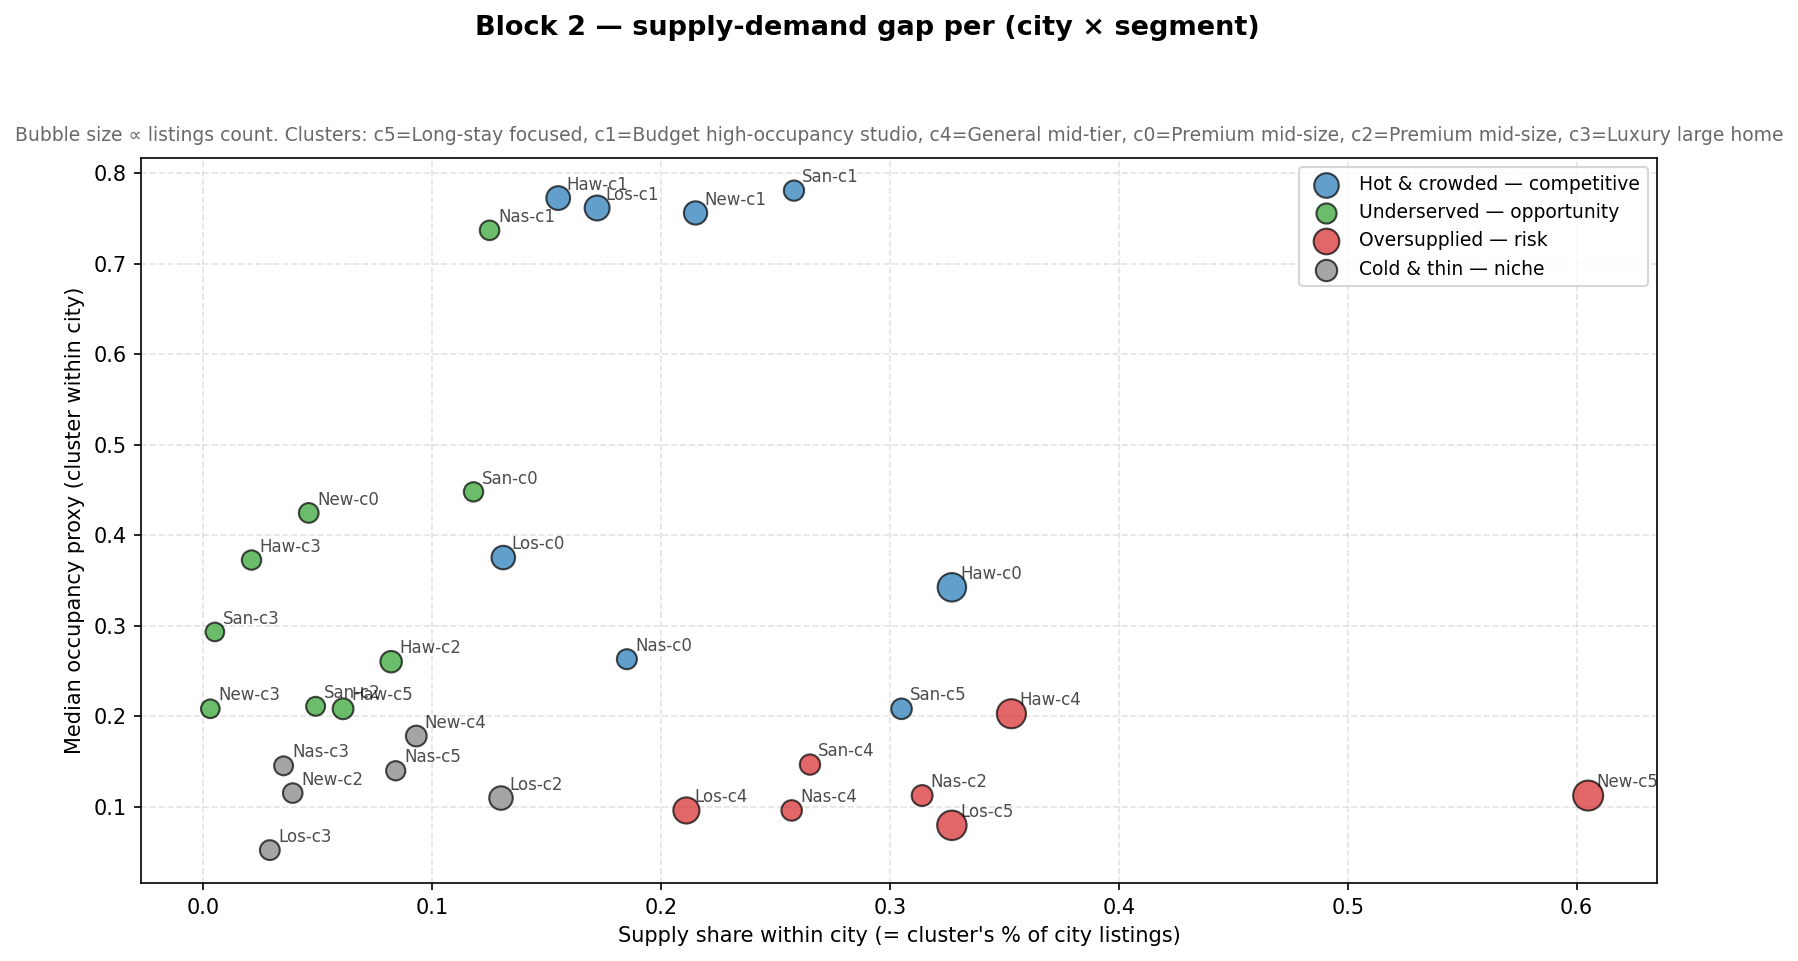
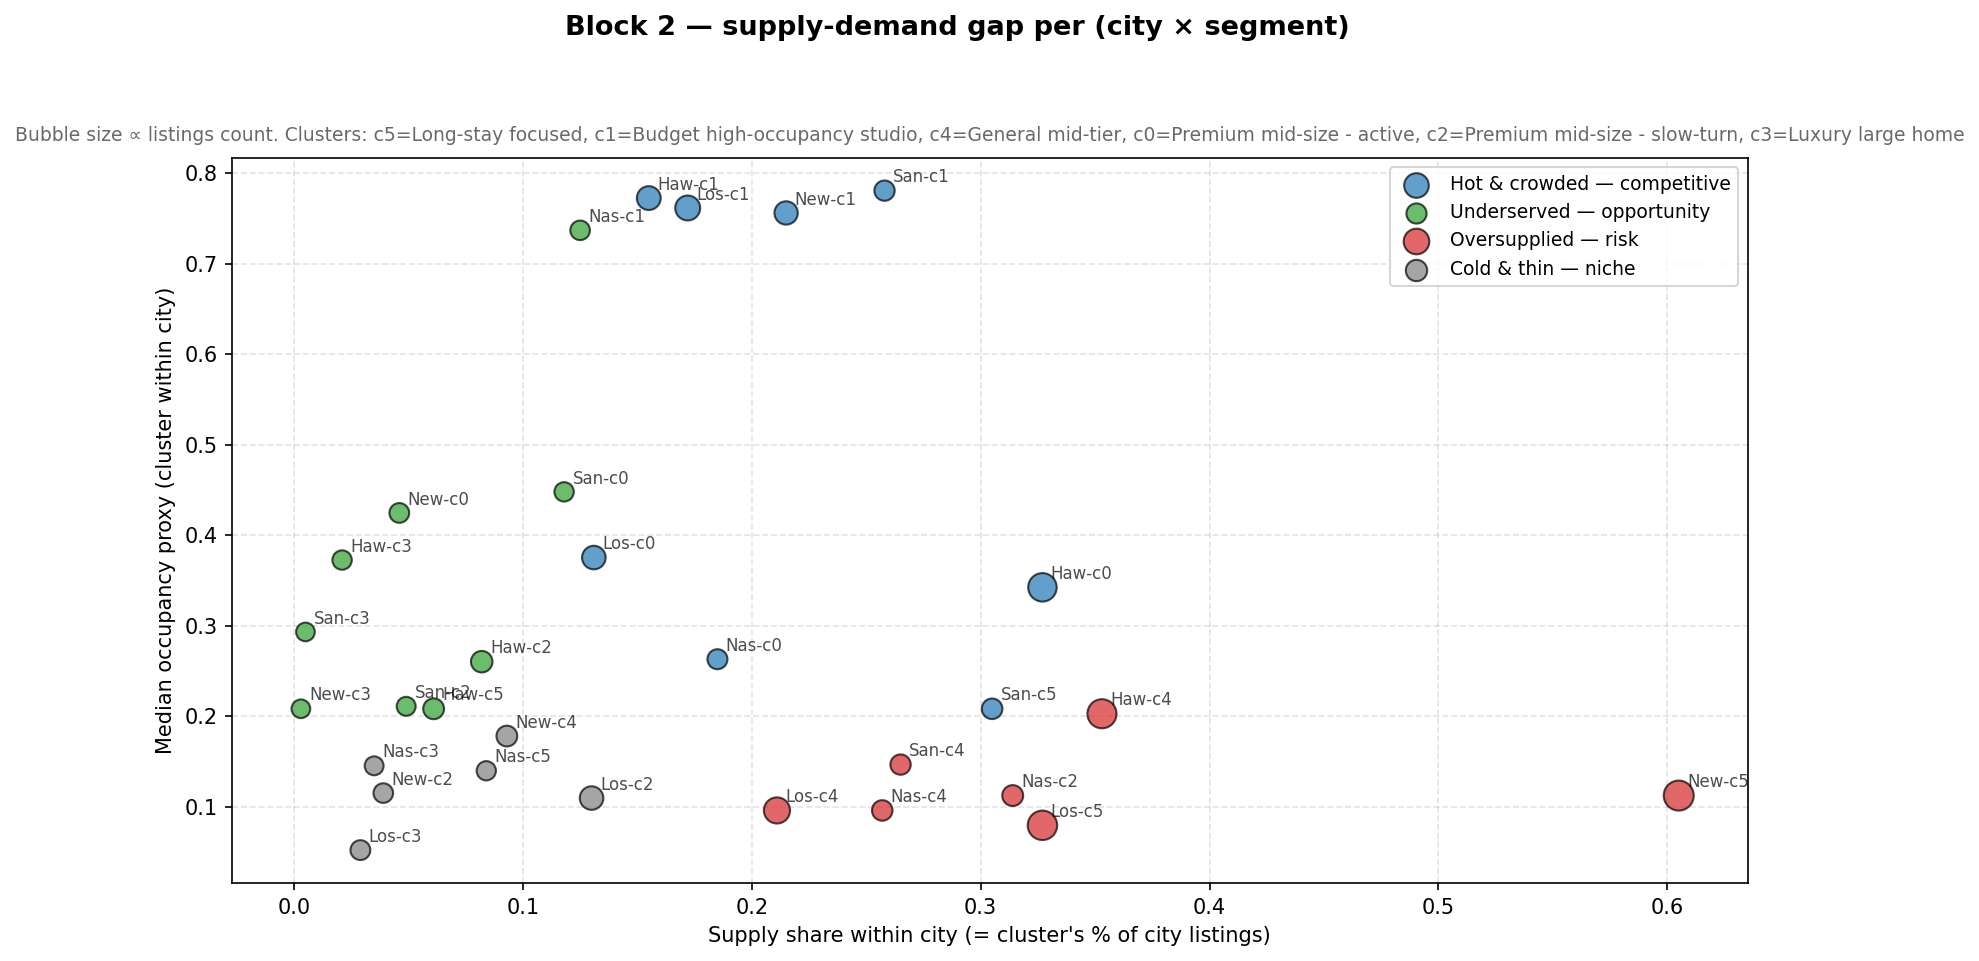
Block 2: disambiguate cluster_name for c0 / c2 to keep Block 5 groupby safe
Clusters 0 and 2 both hit the "Premium mid-size" auto-name branch even though
they are economically distinct (c0: Hawaii, $312, 35% occupancy; c2: LA, $395,
16% occupancy). Once Block 5 runs `df.groupby("cluster_name")`, the two would
collapse into one bucket, contaminating Hawaii recommendations with LA data.

Fix: split the `_auto_name_cluster` "Premium mid-size" branch on `occ >= 0.30`
so c0 becomes `Premium mid-size - active` and c2 becomes `Premium mid-size -
slow-turn`. The threshold sits cleanly between the two centroids (35% vs 16%).

Re-ran the full pipeline; cluster sizes and silhouette are unchanged (the only
delta is the textual `cluster_name` column). Both memos updated to reflect the
new names and to document the operational reason for the split.

Reported by Belu in WhatsApp review.

Made-with: Cursor

diff --git a/scripts/models/segmentation_kmeans.py b/scripts/models/segmentation_kmeans.py
@@ -283,7 +283,10 @@ def _auto_name_cluster(row: pd.Series) -> str:
     if price >= 400 and bedrooms >= 3:
         return "Luxury large home"
     if price >= 250:
-        return "Premium mid-size"
+        # Two distinct economic profiles share the "premium mid-size" label —
+        # split on occupancy so downstream `groupby("cluster_name")` does not
+        # collapse a high-occupancy Hawaii cluster with a low-occupancy LA one.
+        return "Premium mid-size - active" if occ >= 0.30 else "Premium mid-size - slow-turn"
     if accommodates <= 2 and price < 150 and occ >= 0.4:
         return "Budget high-occupancy studio"
     if 2 <= bedrooms <= 3 and price < 250:

diff --git a/results/02_segmentation/segmentation_memo.md b/results/02_segmentation/segmentation_memo.md
@@ -87,11 +87,11 @@ After fitting, every cluster is auto-named from its centroid using simple busine
 | 5 | Long-stay focused | 29,095 | 28.3% | $125 | 10.7% | $4,882 | Entire home/apt | New York |
 | 1 | Budget high-occupancy studio | 18,242 | 17.7% | $136 | 76.2% | $37,826 | Entire home/apt | Los Angeles |
 | 4 | General mid-tier | 24,473 | 23.8% | $153 | 16.4% | $9,159 | Entire home/apt | Hawaii |
-| 0 | Premium mid-size *(active)* | 18,379 | 17.9% | $312 | 34.8% | $39,630 | Entire home/apt | Hawaii |
-| 2 | Premium mid-size *(slow-turn)* | 10,660 | 10.4% | $395 | 16.4% | $23,645 | Entire home/apt | Los Angeles |
+| 0 | Premium mid-size - active | 18,379 | 17.9% | $312 | 34.8% | $39,630 | Entire home/apt | Hawaii |
+| 2 | Premium mid-size - slow-turn | 10,660 | 10.4% | $395 | 16.4% | $23,645 | Entire home/apt | Los Angeles |
 | 3 | Luxury large home | 2,060 | 2.0% | $1,424 | 19.7% | **$102,393** | Entire home/apt | Los Angeles |
 
-Note: clusters 0 and 2 share the auto-name "Premium mid-size" but split on **occupancy** — c0 turns over twice as fast (35%) as c2 (16%). I treat them as two distinct economic profiles.
+Note: clusters 0 and 2 are both at the "premium mid-size" price point ($312 and $395 medians) but split on **occupancy** — c0 turns over twice as fast (35%) as c2 (16%). They are intentionally given different `cluster_name` values (`- active` / `- slow-turn`) so that `df.groupby("cluster_name")` in Block 5 keeps them separate. The split threshold is `occ ≥ 0.30` inside `_auto_name_cluster`.
 
 ### 3.4 Hawaii neighborhood ranking
 
@@ -163,8 +163,8 @@ Hawaii zoom-in (full table in `segment_supply_demand_gap.csv`):
 | ---: | --- | ---: | ---: | ---: | --- |
 | 1 | Budget high-occupancy studio | 5,067 | 15.5% | 77.3% | Hot & crowded |
 | 3 | Luxury large home | 684 | 2.1% | 37.3% | **Underserved — opportunity** |
-| 0 | Premium mid-size (active) | 10,699 | 32.7% | 34.2% | Hot & crowded |
-| 2 | Premium mid-size (slow-turn) | 2,685 | 8.2% | 26.0% | **Underserved — opportunity** |
+| 0 | Premium mid-size - active | 10,699 | 32.7% | 34.2% | Hot & crowded |
+| 2 | Premium mid-size - slow-turn | 2,685 | 8.2% | 26.0% | **Underserved — opportunity** |
 | 5 | Long-stay focused | 2,001 | 6.1% | 20.8% | **Underserved — opportunity** |
 | 4 | General mid-tier | 11,533 | 35.3% | 20.3% | **Oversupplied — risk** |
 

diff --git a/results/02_segmentation/segmentation_summary.md b/results/02_segmentation/segmentation_summary.md
@@ -29,8 +29,8 @@
 |         5 |        29095 | $125           | $161         | 10.7%              | 17.0%            |                     2 |                 1 |                1   |                  30 | $4,882                     |        28.3 | Entire home/apt | New York    | Long-stay focused            |
 |         1 |        18242 | $136           | $165         | 76.2%              | 76.4%            |                     2 |                 1 |                1   |                   3 | $37,826                    |        17.7 | Entire home/apt | Los Angeles | Budget high-occupancy studio |
 |         4 |        24473 | $153           | $179         | 16.4%              | 18.8%            |                     3 |                 1 |                1   |                   1 | $9,159                     |        23.8 | Entire home/apt | Hawaii      | General mid-tier             |
-|         0 |        18379 | $312           | $463         | 34.8%              | 39.2%            |                     6 |                 2 |                2   |                   2 | $39,630                    |        17.9 | Entire home/apt | Hawaii      | Premium mid-size             |
-|         2 |        10660 | $395           | $621         | 16.4%              | 24.0%            |                     8 |                 4 |                3   |                   3 | $23,645                    |        10.4 | Entire home/apt | Los Angeles | Premium mid-size             |
+|         0 |        18379 | $312           | $463         | 34.8%              | 39.2%            |                     6 |                 2 |                2   |                   2 | $39,630                    |        17.9 | Entire home/apt | Hawaii      | Premium mid-size - active    |
+|         2 |        10660 | $395           | $621         | 16.4%              | 24.0%            |                     8 |                 4 |                3   |                   3 | $23,645                    |        10.4 | Entire home/apt | Los Angeles | Premium mid-size - slow-turn |
 |         3 |         2060 | $1,424         | $2,345       | 19.7%              | 26.2%            |                    12 |                 6 |                5.5 |                   3 | $102,393                   |         2   | Entire home/apt | Los Angeles | Luxury large home            |
 
 ## Top-10 Hawaii neighborhoods (composite score)
@@ -95,6 +95,6 @@
 
 ## Hand-off to Block 5 (Investment Decision)
 
-- Recommended **segments to short-list**: `Luxury large home` (cluster 3), `Premium mid-size` (cluster 0).
+- Recommended **segments to short-list**: `Luxury large home` (cluster 3), `Premium mid-size - active` (cluster 0).
 - Recommended **Hawaii neighborhoods to short-list**: `Ewa`, `Koloa-Poipu`, `Lihue`.
 - Use `cluster_assignments.csv` as the join key for Block 5 (`listing_id, City, cluster, cluster_name`).